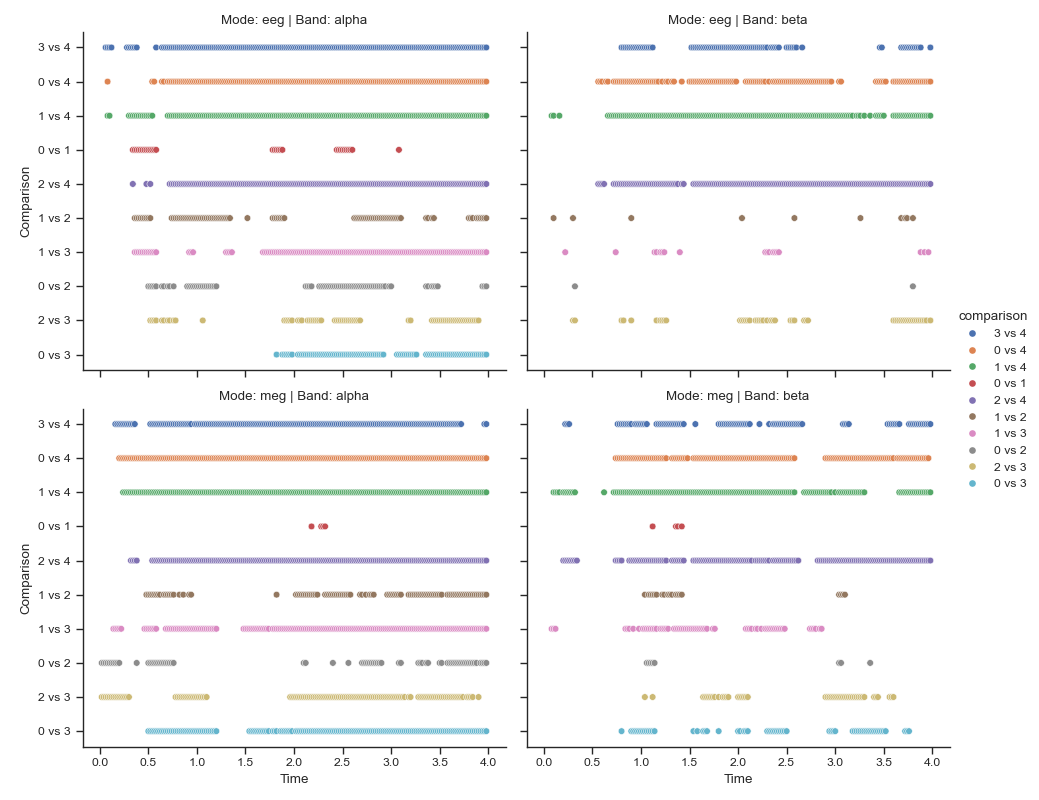
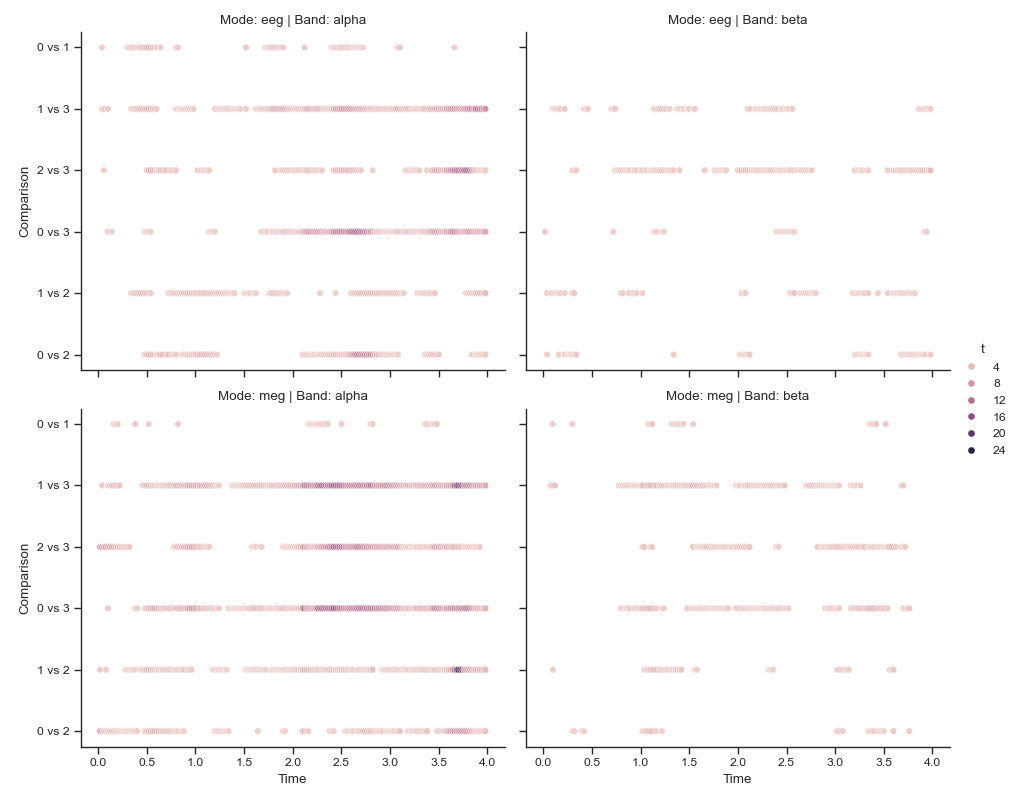
Refactor code structure for improved readability and maintainability

diff --git a/main.py b/main.py
@@ -18,6 +18,8 @@ Functions:
 
 # %% ---- 2026-01-18 ------------------------
 # Requirements and constants
+import json
+from collections import defaultdict
 from itertools import combinations
 from scipy import stats
 import numpy as np
@@ -113,6 +115,7 @@ idx = (
 
 table = table.loc[idx].reset_index(drop=True)
 print(table)
+table.to_csv(OUTPUT_DIR / 'erd example channels summary.csv', index=False)
 
 # %%
 table = table[['times', 'values', 'mode', 'evt', 'band']]
@@ -192,19 +195,69 @@ results_df = pd.DataFrame(results)
 print(results_df)
 
 # %%
-significant_df = results_df[results_df['p_value'] < 0.01].copy()
+significant_df = results_df[results_df['p_value'] < 0.05].copy()
 significant_df = significant_df.query(f'time>0 & time<4').copy()
 significant_df = significant_df[significant_df['band'].isin(
     ['alpha', 'beta'])].copy()
-significant_df
-
-# %%
-# 方法1：使用seaborn的relplot（推荐，更简洁）
-fig = plt.figure(figsize=(14, 12), dpi=600)
+significant_df = significant_df.query('evt1 != "4" & evt2 != "4"').copy()
+significant_df['t'] = significant_df['t_statistic'].abs()
 
 # 创建组合标签
 significant_df['comparison'] = significant_df['evt1'].astype(
     str) + ' vs ' + significant_df['evt2'].astype(str)
+
+significant_df
+
+# %%
+times = np.array(significant_df['time'].unique())
+times.sort()
+times
+
+# %%
+# Statistical time ranges of significant differences for comparisons
+time_ranges = defaultdict(list)
+for comparison in ['0 vs 1', '0 vs 2', '0 vs 3', '1 vs 2', '1 vs 3', '2 vs 3']:
+    for mode in ['meg', 'eeg']:
+        for band in ['alpha', 'beta']:
+            key = f"{comparison}_{mode}_{band}"
+            comp_df = significant_df[significant_df['comparison']
+                                     == comparison]
+            comp_df = comp_df[comp_df['mode'] == mode]
+            comp_df = comp_df[comp_df['band'] == band]
+            for t in times:
+                t = float(t)
+                _df = comp_df[comp_df['time'] < t+0.1]
+                _df = _df[_df['time'] > t-0.1]
+                if _df['p_value'].min() < 0.05:
+                    time_ranges[key].append(t)
+
+print("Significant time ranges for comparisons (p < 0.05):")
+for comparison, ranges in time_ranges.items():
+    print(f"{comparison}: {ranges}")
+
+# %%
+json.dump(time_ranges, open(
+    OUTPUT_DIR / 'Significant time ranges.json', 'w'), indent=4)
+
+# %%
+time_lines = []
+for k, v in time_ranges.items():
+    time_line = times * 0
+    time_line[np.isin(times, v)] = 1
+    time_lines.append(time_line)
+
+time_lines = np.array(time_lines)
+df = pd.DataFrame(time_lines, index=time_ranges.keys(), columns=times)
+df.to_csv(OUTPUT_DIR / 'Significant time lines.csv')
+
+plt.imshow(time_lines, aspect='auto', cmap='Greys')
+plt.show()
+
+# %%
+
+# %%
+# 方法1：使用seaborn的relplot（推荐，更简洁）
+fig = plt.figure(figsize=(14, 12), dpi=600)
 
 # 使用relplot创建网格图
 g = sns.relplot(
@@ -213,7 +266,7 @@ g = sns.relplot(
     y='comparison',
     col='band',
     row='mode',
-    hue='comparison',
+    hue='t',
     kind='scatter',
     height=4,
     aspect=1.2,
